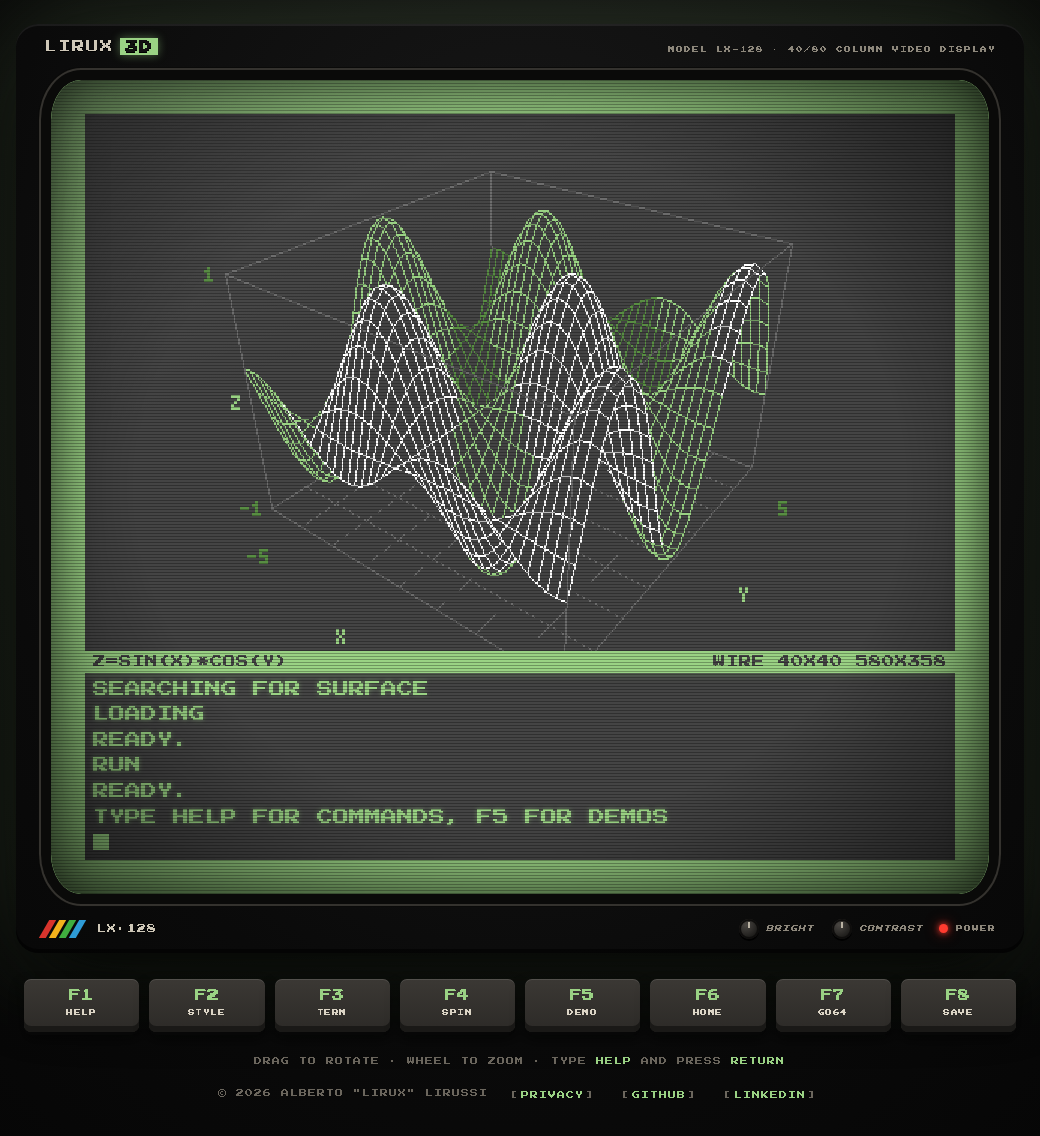
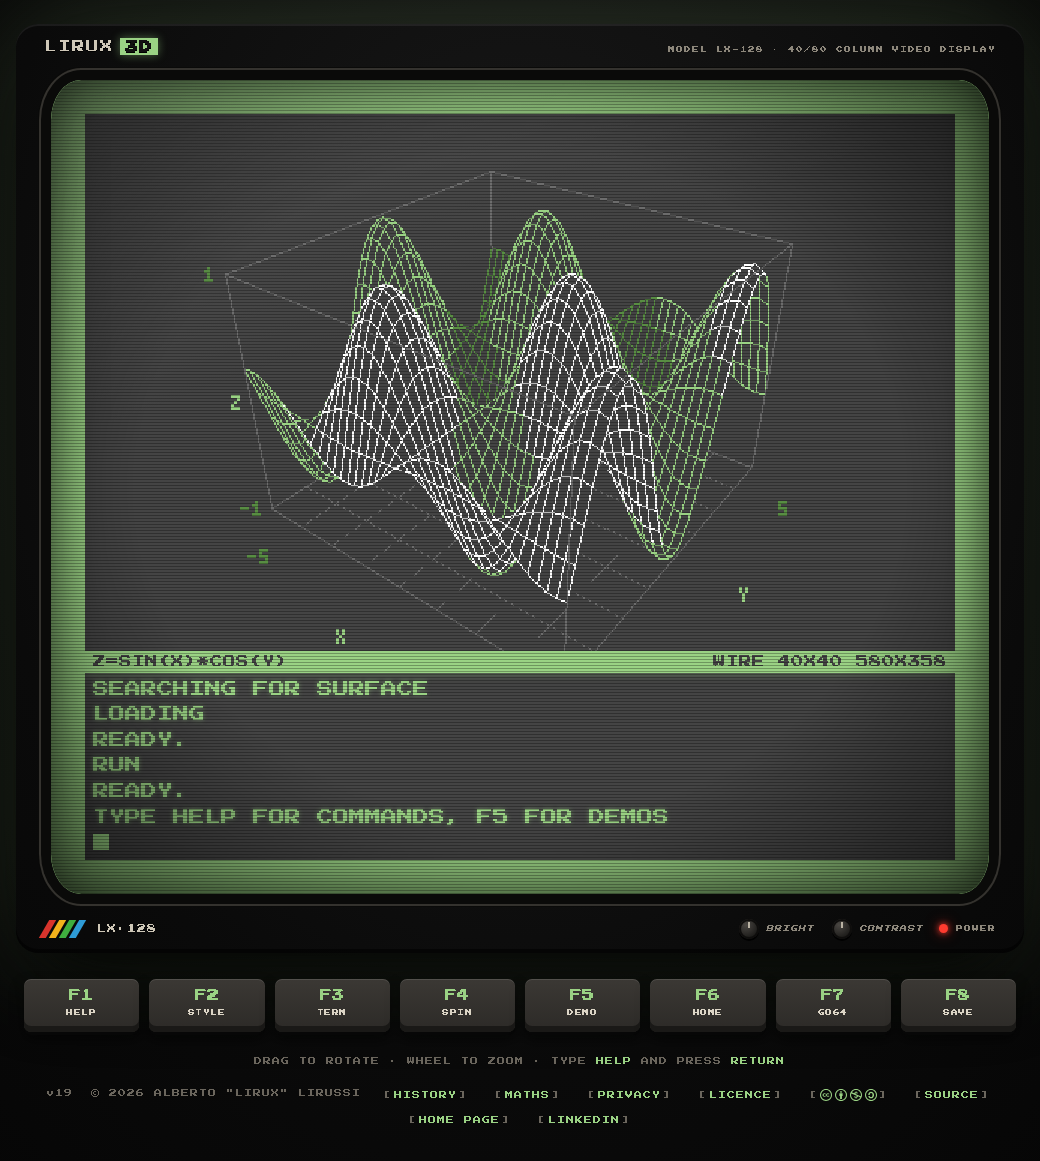
Refresh the README screenshots and the social card

diff --git a/index.html b/index.html
@@ -76,7 +76,7 @@
     <p class="hint">DRAG TO ROTATE &middot; WHEEL TO ZOOM &middot; TYPE <kbd>HELP</kbd> AND PRESS <kbd>RETURN</kbd></p>
 
     <footer class="credits">
-      <span class="version">v19</span>
+      <span class="version">v20</span>
       <span>&copy; 2026 ALBERTO "LIRUX" LIRUSSI</span>
       <a href="history.html">HISTORY</a>
       <a href="maths.html">MATHS</a>

diff --git a/licence.html b/licence.html
@@ -135,7 +135,7 @@
     </nav>
 
     <footer class="credits">
-      <span class="version">v19</span>
+      <span class="version">v20</span>
       <span>&copy; 2026 ALBERTO "LIRUX" LIRUSSI</span>
       <a href="history.html">HISTORY</a>
       <a href="maths.html">MATHS</a>

diff --git a/privacy.html b/privacy.html
@@ -170,7 +170,7 @@
     </nav>
 
     <footer class="credits">
-      <span class="version">v19</span>
+      <span class="version">v20</span>
       <span>&copy; 2026 ALBERTO "LIRUX" LIRUSSI</span>
       <a href="history.html">HISTORY</a>
       <a href="maths.html">MATHS</a>

diff --git a/maths.html b/maths.html
@@ -140,7 +140,7 @@
     </nav>
 
     <footer class="credits">
-      <span class="version">v19</span>
+      <span class="version">v20</span>
       <span>&copy; 2026 ALBERTO "LIRUX" LIRUSSI</span>
       <a href="history.html">HISTORY</a>
       <a href="./">LIRUX 3D</a>

diff --git a/history.html b/history.html
@@ -97,7 +97,7 @@
     </nav>
 
     <footer class="credits">
-      <span class="version">v19</span>
+      <span class="version">v20</span>
       <span>&copy; 2026 ALBERTO "LIRUX" LIRUSSI</span>
       <a href="maths.html">MATHS</a>
       <a href="./">LIRUX 3D</a>
